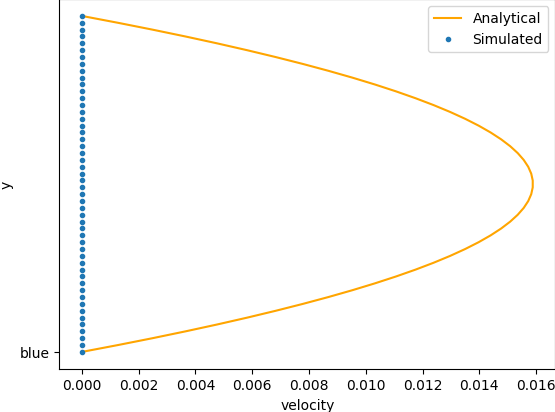
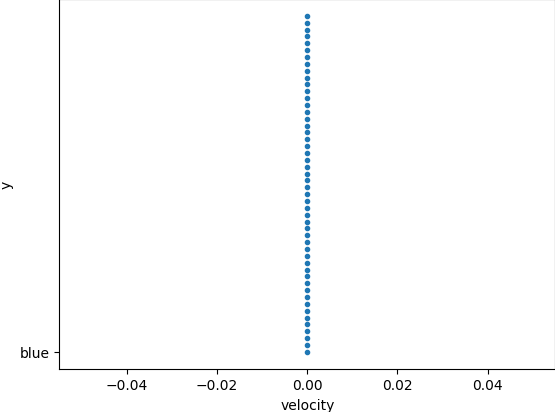
Add poiseuille new

diff --git a/plot.py b/plot.py
@@ -101,17 +101,23 @@ class Plotter3:
     def plot_poiseuille_flow(self, rho, velocities, omega, pressure_in, pressure_out, step, nx, ny):
         y = np.arange(ny)
         self.ax.cla()
-        viscosity = 1/3 * (1/omega - 0.5)
-        dynamic_viscosity = rho[nx//2, :] * viscosity
-        partial_derivative = (pressure_out - pressure_in) / nx
-        analytical = (-0.5 * partial_derivative * y *
-                      (ny - 1 - y)) / dynamic_viscosity
+        #viscosity = 1/3 * (1/omega - 0.5)
+        #dynamic_viscosity = rho[nx//2, :] * viscosity
+        #partial_derivative = (pressure_out - pressure_in) / nx
+        #analytical = (-0.5 * partial_derivative * y *
+        #              (ny - 1 - y)) / dynamic_viscosity
+        
+        shear_viscosity = (1 / omega - 0.5) / 3
+        delta = 2.0 / nx / shear_viscosity / 2.
+        y = np.linspace(0, ny, ny)
+        u_analytical = delta * y * (ny - y) / 3.
+
         # ax.set_xlim([0, np.max(analytical) + 0.001])
-        self.ax.plot(analytical, y, COLORS[ANALYTIC])
+        #self.ax.plot(u_analytical, y, COLORS[ANALYTIC])
         self.ax.plot(velocities[0, nx//2, :], y, '.', COLORS[SIMULATION])
         self.ax.set_ylabel('y')
         self.ax.set_xlabel('velocity')
-        self.ax.legend(['Analytical','Simulated'])
+        #self.ax.legend(['Analytical','Simulated'])
         save_path = os.path.join(self.path, f'pousielle_flow_{step}')
         self.fig.savefig(save_path, bbox_inches='tight', pad_inches=0)
 

diff --git a/poiseuille_flow.py b/poiseuille_flow.py
@@ -2,7 +2,7 @@ import numpy as np
 from lb import LatticeBoltzmann, RigidWall, PortalWall
 from plot import Plotter3
 
-def poiseuille_flow_sim(nx: int = 100, ny: int = 50, pressure_left= 3.005, pressure_right= 3.0, omega: float = 0.3, steps: int = 4001):
+def poiseuille_flow_sim(nx: int = 100, ny: int = 50, pressure_left= 0.31, pressure_right= 0.3, omega: float = 0.3, steps: int = 4001):
     
     rho = np.ones((nx, ny))
     velocities = np.zeros((2, nx, ny))

diff --git a/sliding_lid.py b/sliding_lid.py
@@ -2,7 +2,7 @@ import numpy as np
 from lb import LatticeBoltzmann, RigidWall, MovingWall
 from plot import Plotter4
 
-def sliding_lid_sim(nx: int = 50, ny: int = 50, omega: float = 0.3, steps: int = 20001):
+def sliding_lid_sim(nx: int = 300, ny: int = 300, omega: float = 0.3, steps: int = 20001):
     
     rho = np.ones((nx, ny))
     velocities = np.zeros((2, nx, ny))

diff --git a/lb/manager.py b/lb/manager.py
@@ -1,4 +1,4 @@
-from mpi4py import MPI
+#from mpi4py import MPI
 
 
 class WorkManager():
